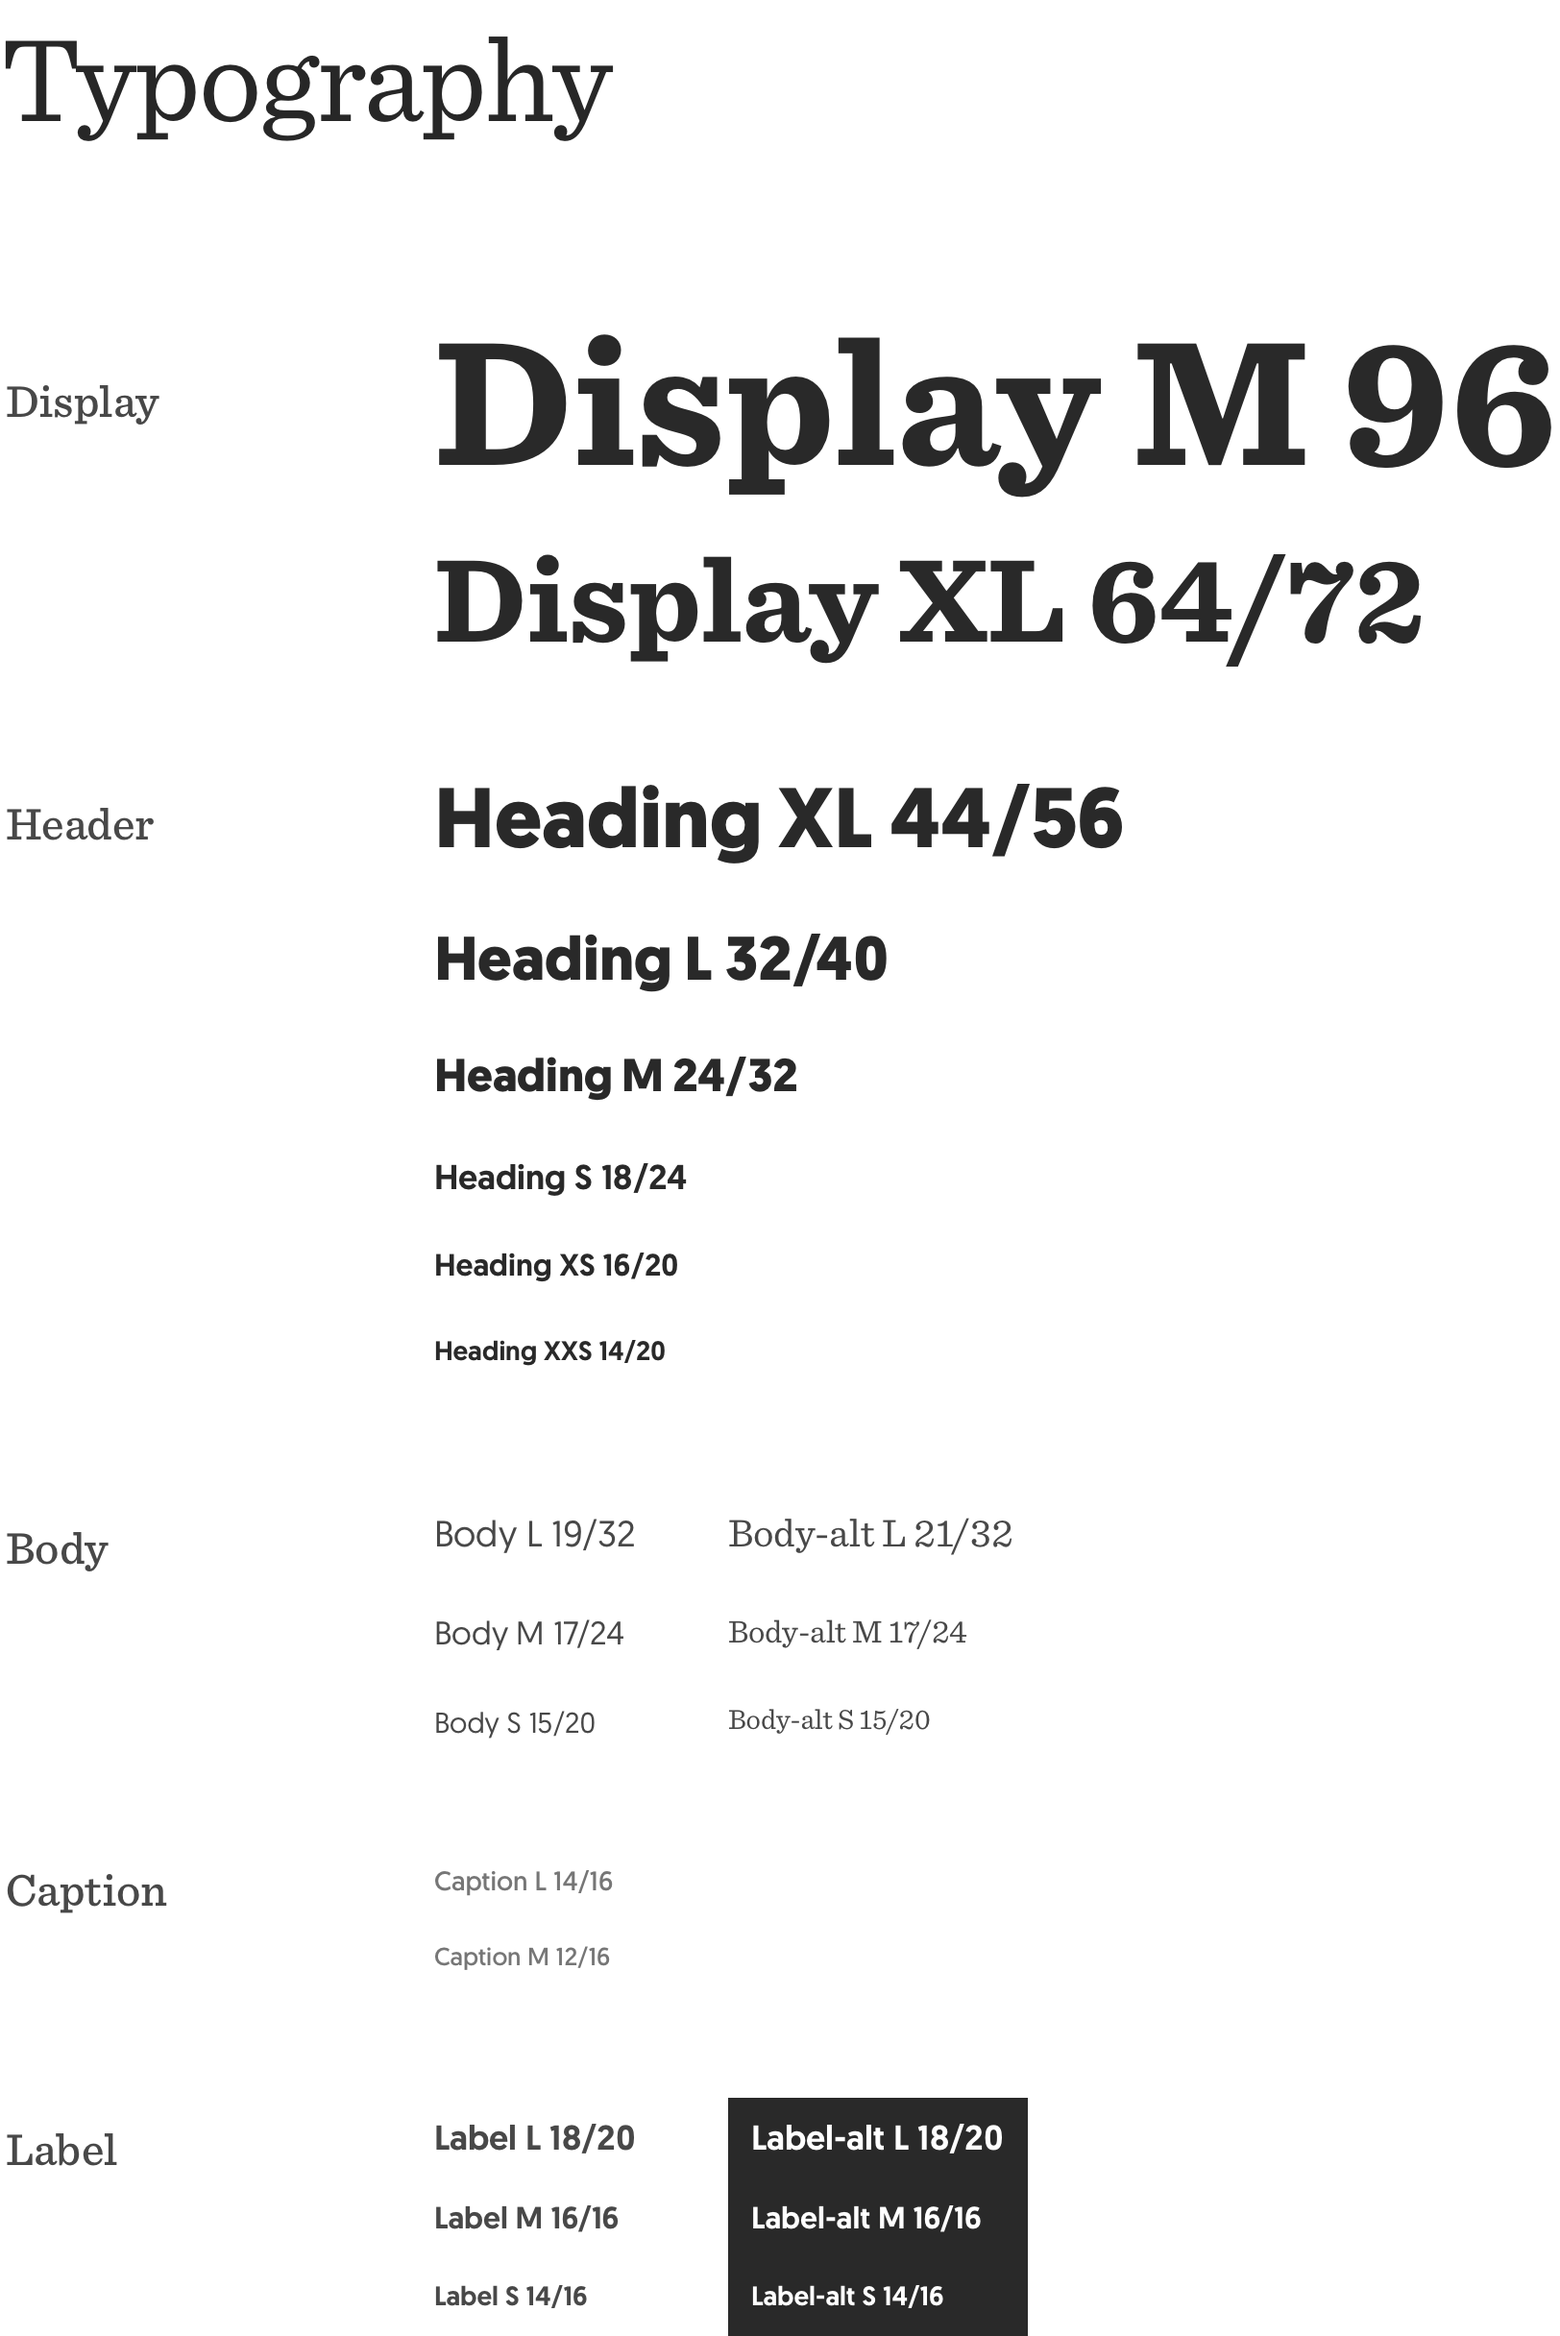
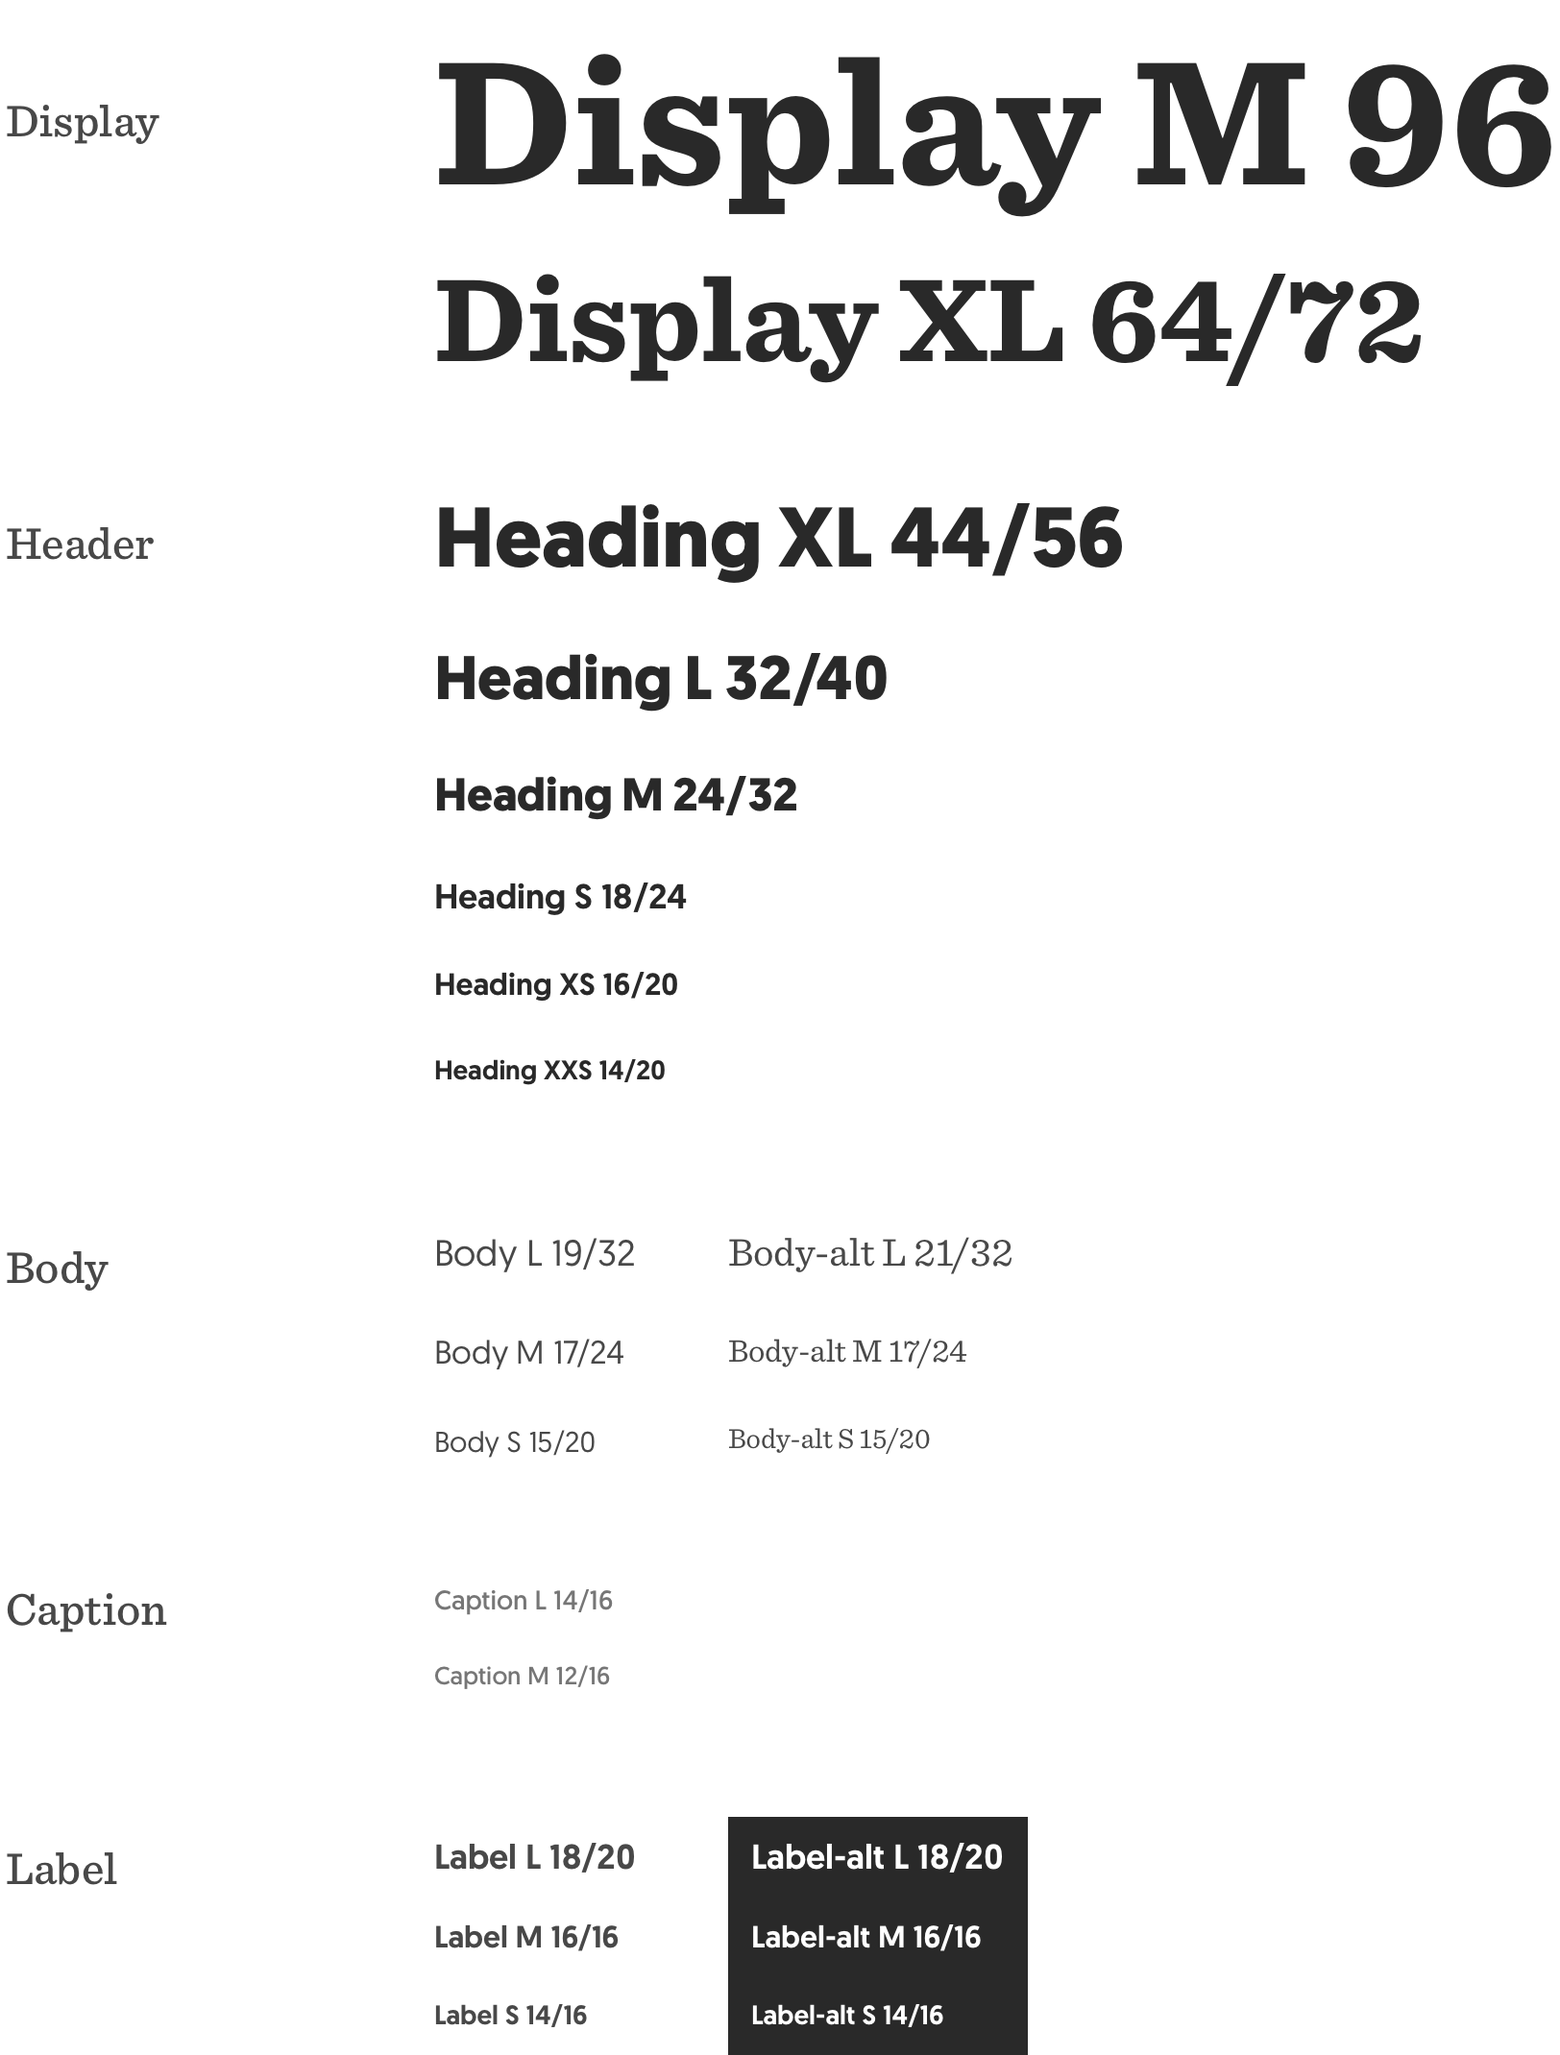
update readme.ms

diff --git a/README.md b/README.md
@@ -265,8 +265,12 @@ Spacing tokens are used for padding, margins, and position coordinates. Semua ni
 ## Space Stretch
 ![alt-text](https://raw.githubusercontent.com/vasilenka/invoker/master/src/space/stretch.png "Space Stretch")
 
-![alt-text](https://raw.githubusercontent.com/vasilenka/invoker/master/src/typography/type.png "Typography")
-
 # Typography
 
 Text is one of the main way we can deliver the information to the user. Keeping consist and sticking to logical hierarchies ensures that elements in the UI are clear and easily recognizable when scanning the page. Text sizes, styles, and layouts were selected to balance content and UI and to foster familiarity.
+
+Here's a list of type scale and it's property that we used across the brand.
+
+##
+
+![alt-text](https://raw.githubusercontent.com/vasilenka/invoker/master/src/typography/type.png "Typography")
